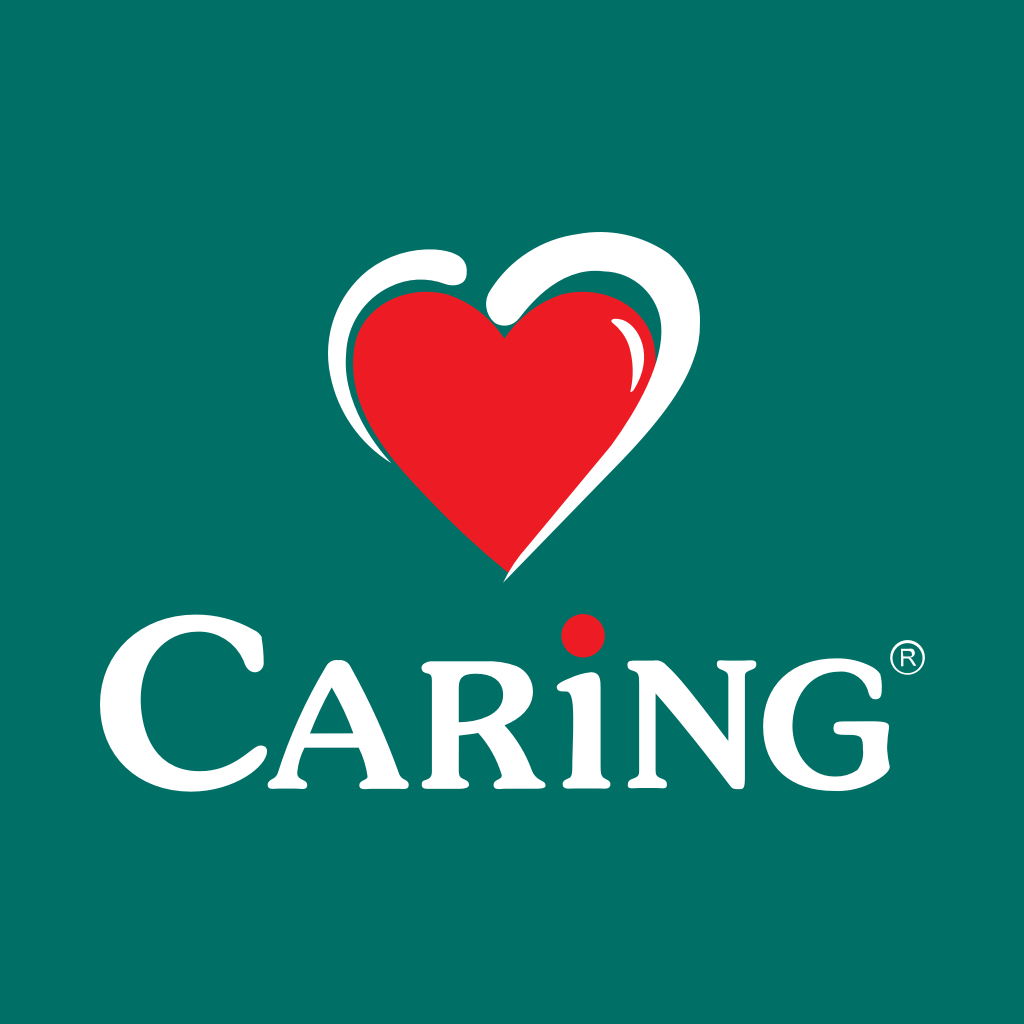
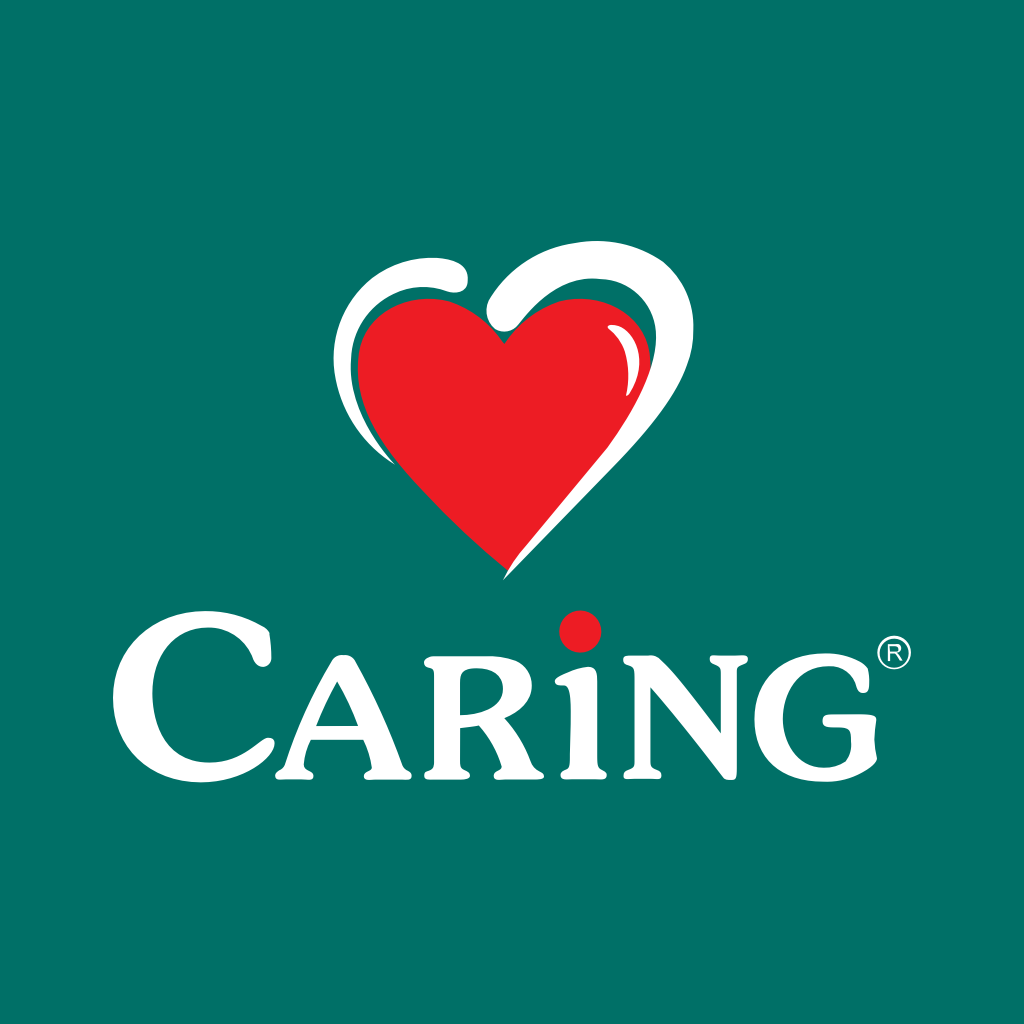
added custom field app_login

diff --git a/src/pages/registration/registration.ts b/src/pages/registration/registration.ts
@@ -134,7 +134,7 @@ export class RegistrationPage {
       
       this.registerData.mobile = this._existingCustomerData[0].customerdata.customer[0].mobile;
       
-      this.userProvider.updateProfile(this.registerData).subscribe(data => {
+      this.userProvider.updateProfile(this.registerData,true).subscribe(data => {
               
         this.loaderProvider.presentLoadingCustom();
         this.authProvider.setHeader();
@@ -187,7 +187,21 @@ export class RegistrationPage {
         
         if (data[0].code == 200) 
             
-          this.loginOTPSucess(data);
+          this.loginOTPSucess(data).then(d => {
+            let registerData = {
+                            
+              fname: data[0].customerdata.customer[0].firstname,
+              lname: data[0].customerdata.customer[0].lastname,
+              email: data[0].customerdata.customer[0].email,
+              mobile: data[0].customerdata.customer[0].mobile,
+              externalId: data[0].customerdata.customer[0].external_id,
+                              
+            }
+            this.userProvider.updateProfile(registerData, true).subscribe(data => {
+              console.log("updated profile after registration success")
+
+            });
+          });
           
          else 
           
@@ -207,6 +221,8 @@ export class RegistrationPage {
 
   loginOTPSucess(data) {
 
+    return new Promise((resolve) => {
+      
     this.authProvider.setUser(data[0].customerdata);
     this.authProvider.setAuthToken(data[0].auth_key);
     localStorage.setItem('phone', data[0].customerdata.customer[0].mobile);
@@ -220,6 +236,9 @@ export class RegistrationPage {
     this.events.publish('user:login', true);
     this.navCtrl.setRoot("HomePage");
     this.clearOTPBox();
+    resolve(true);  
+    })    
+    
 
   }
 

diff --git a/src/pages/otp/otp.ts b/src/pages/otp/otp.ts
@@ -93,7 +93,20 @@ export class OtpPage {
             let mobile_validated = custom_data.filter(res => res.name === this.MOBILE_VALIDATED);
             
             if(mobile_validated[0] && mobile_validated[0].value == this.YES){
-                this.loginOTPSucess(data);
+              this.loginOTPSucess(data).then(d => {
+                let registerData = {
+                            
+                              fname:data[0].customerdata.customer[0].firstname,
+                              lname:data[0].customerdata.customer[0].lastname,
+                              email:data[0].customerdata.customer[0].email,
+                              mobile:data[0].customerdata.customer[0].mobile,
+                              externalId:data[0].customerdata.customer[0].external_id,
+                              
+                          }
+                this.userProvider.updateProfile(registerData, true).subscribe(data => {
+                  console.log("updated after login");
+                })
+              })
                 this.navCtrl.setRoot("HomePage");
             }
 
@@ -118,7 +131,7 @@ export class OtpPage {
 
   //otp success handler for login
   loginOTPSucess(data) {
-
+    return new Promise((resolve) => {
     this.authProvider.setUser(data[0].customerdata);
     this.authProvider.setAuthToken(data[0].auth_key);
     if (this.platform.is('cordova')) {
@@ -131,7 +144,8 @@ export class OtpPage {
     this.authProvider.setHeader();
     this.clearOTPBox();
     this.events.publish('user:login', true);
-
+    resolve(true);  
+    });
   }
 
  

diff --git a/src/providers/userdata/userdata.ts b/src/providers/userdata/userdata.ts
@@ -77,7 +77,7 @@ export class UserdataProvider {
 
 
   // update user details
-    updateProfile(userdata) {
+    updateProfile(userdata,isCustomUpdate) {
 
       let data = {
       
@@ -92,7 +92,9 @@ export class UserdataProvider {
       
       }
       
-    data.custom_fields.push({name:"mobile_validated", value:"Yes", type:"string"});
+      data.custom_fields.push({ name: "mobile_validated", value: "Yes", type: "string" });
+      if (isCustomUpdate)
+         data.custom_fields.push({ name: "app_login", value: "1", type: "string" });
       let body = data;
       return this.http
       .post(this.apiProvider.BASE_URL + UPDATE_PROFILE, body, { headers: this.auth.getHeader() })

diff --git a/src/url.ts b/src/url.ts
@@ -1,13 +1,13 @@
 
- export const HAPPENINGS = 'events?lang=';
+ export const HAPPENINGS = 'events?orderby_dsc=createdAt&lang=';
 
  export const HOME_BANNER = 'homebanners?lang=';
 
- export const INSTORE = 'instoreactivities?lang=';
+ export const INSTORE = 'instoreactivities?orderby_dsc=createdAt&lang=';
 
- export const PROMOTIONS = 'promotions?lang=';
+ export const PROMOTIONS = 'promotions?orderby_dsc=createdAt&lang=';
 
- export const HEALTH_INFO = 'healthinfo?lang=';
+ export const HEALTH_INFO = 'healthinfo?orderby_dsc=createdAt&lang=';
 
  export const FAQ = 'faq?lang=';
 

diff --git a/src/components/header/header.html b/src/components/header/header.html
@@ -6,7 +6,7 @@
         </button>
         <div class="topHeader">
             <div class="logo">
-                <img src="assets/img/caring_logo.png" />
+                <img src="assets/img/caring_logo.svg" />
             </div>
 
              <ion-icon (click)="goTo('MessagesPage')">
